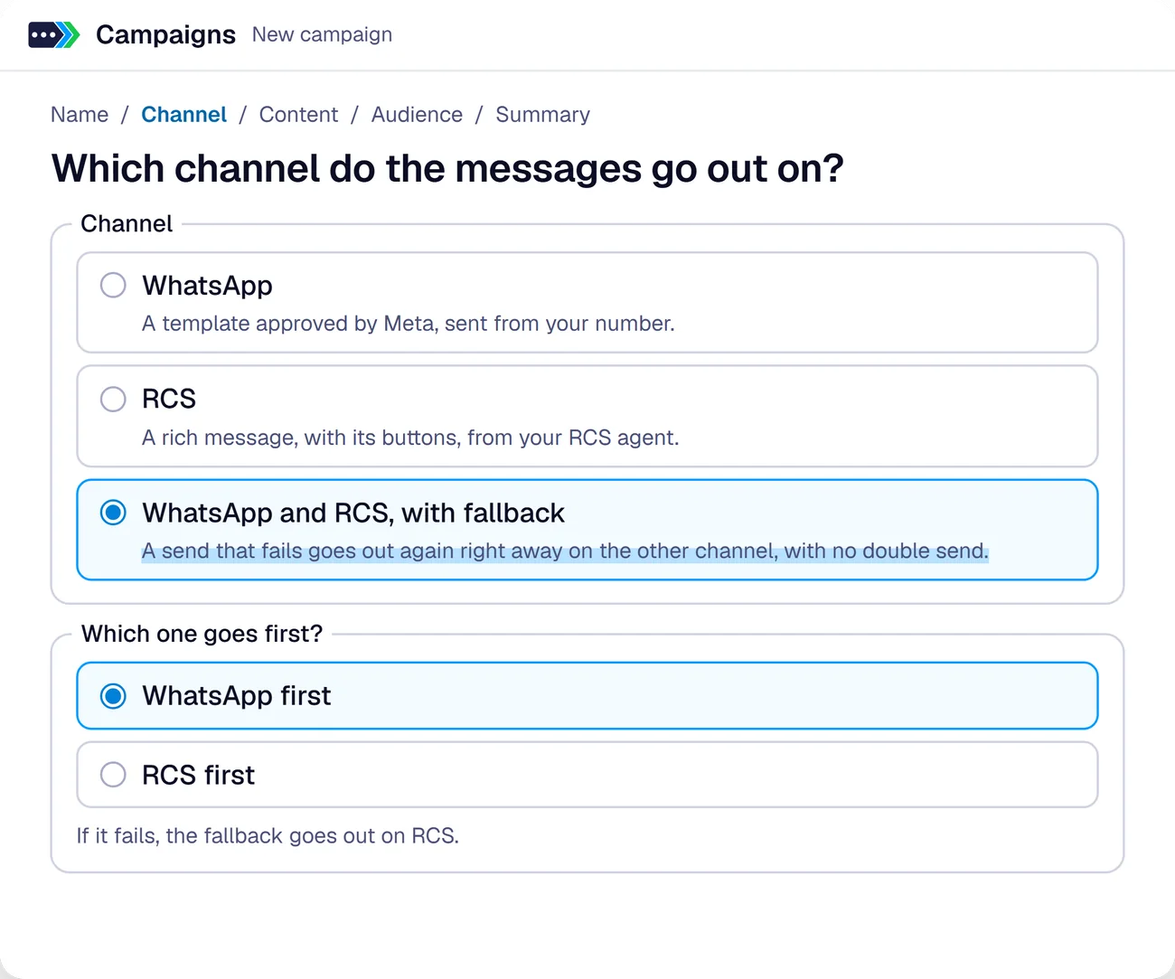
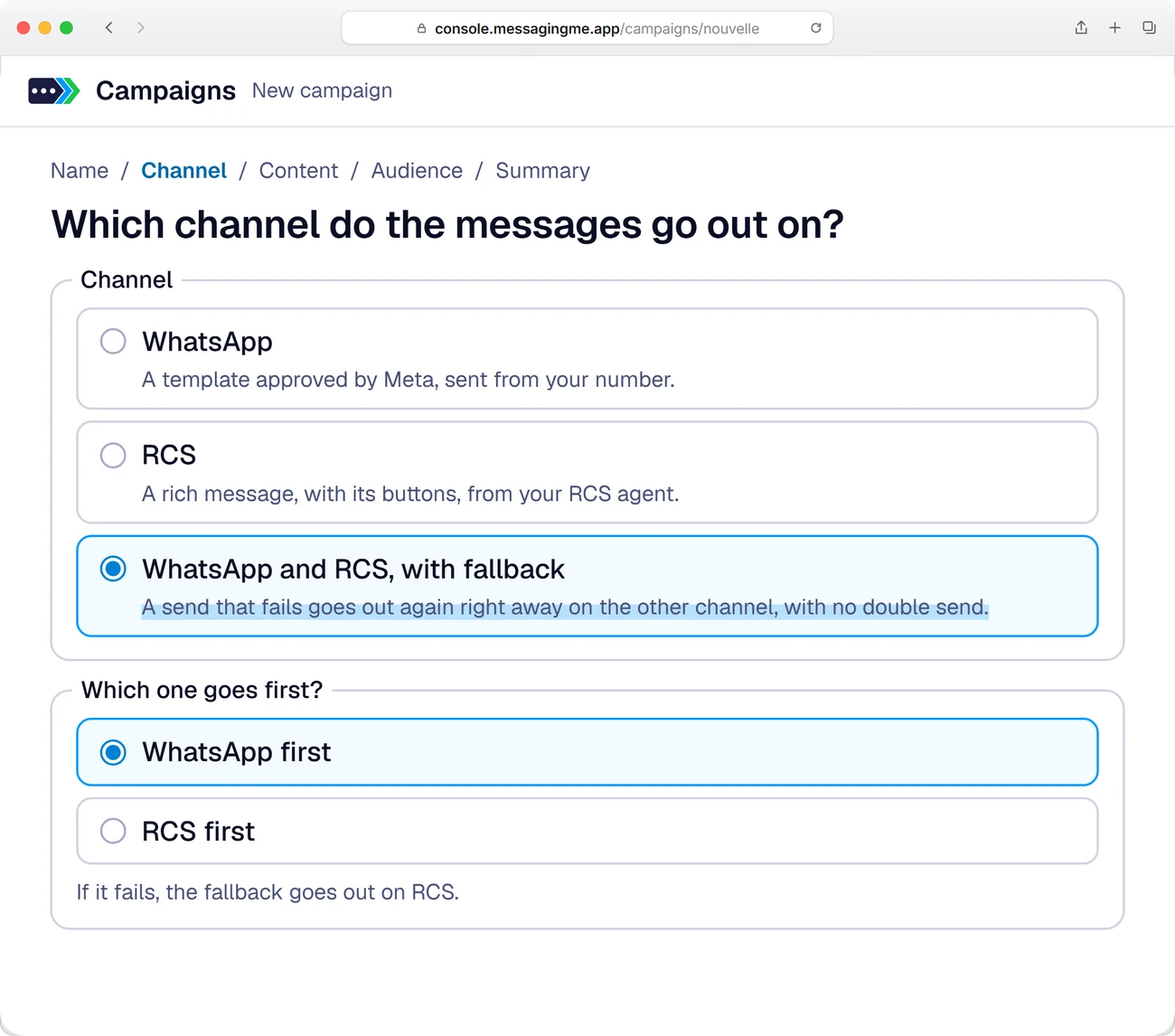
feat(vitrine): les écrans de la console dans une vraie fenêtre de navigateur
Retour de Julien : les écrans à plat (fiche CRM, campagne, Inbox, Chaîne,
publicité, scénarios) « tu peux pas les rendre plus beaux ? ». Ce sont des
écrans d'ordinateur : ils passent dans une fenêtre de navigateur de Mac (feux,
barre d'adresse au cadenas avec la vraie route de la console, coins), avec une
ombre profonde et une légère 3D, plus discrète que celle des iPhone.

Les écrans sont rendus de nouveau depuis les films, déjà en Messaging Me :
l'ancien logo des en-têtes et « Mis à jour par Engage Me » disparaissent. Le bas
vide des deux fiches CRM est coupé. Les tâches et le schéma « brique » restent à
plat. Pages françaises : nouvelles dimensions et ?v= ; pages anglaises
régénérées par npm run vitrine:anglais. La carte Fallback de l'accueil est
recadrée.

Vérifié à 1440 et 390 px ; les tests de la vitrine passent (138).

diff --git a/site/fonctionnalites/publicites-click-to-whatsapp/index.html b/site/fonctionnalites/publicites-click-to-whatsapp/index.html
@@ -270,23 +270,23 @@
           <li class="f-etape actif">
             <span class="f-num">1</span>
             <div><h3>Créez la pub dans Messaging Me</h3><p>Visuel, texte, message pré-rempli, budget, dates et audiences. La pub part sur votre compte publicitaire Meta, créée en pause&nbsp;: rien ne dépense avant que vous publiiez.</p></div>
-            <img src="/img/ctwa-creer.webp" width="1300" height="1000" alt="La création d’une publicité dans Messaging Me, avec son aperçu dans le fil" loading="lazy">
+            <img src="/img/ctwa-creer.webp?v=2" width="1300" height="1062" alt="La création d’une publicité dans Messaging Me, avec son aperçu dans le fil" loading="lazy">
           </li>
           <li class="f-etape">
             <span class="f-num">2</span>
             <div><h3>Branchez le scénario qui répond</h3><p>Il se choisit dans le formulaire de la pub, pas dans un autre outil. Le prospect reçoit sa réponse dans la seconde&nbsp;: son code, une question, un lien, jour et nuit.</p></div>
-            <img src="/img/ctwa-scenario.webp" width="1300" height="1000" alt="Le scénario qui accueille les prospects venus de la pub" loading="lazy">
+            <img src="/img/ctwa-scenario.webp?v=2" width="1300" height="1062" alt="Le scénario qui accueille les prospects venus de la pub" loading="lazy">
           </li>
           <li class="f-etape">
             <span class="f-num">3</span>
             <div><h3>Choisissez qui prend en charge</h3><p>Selon la réponse du prospect, la conversation va à votre équipe, à un agent IA ou au Meta Business Agent.</p></div>
-            <img src="/img/ctwa-qui.webp" width="1300" height="1000" alt="Le scénario confie la suite à l’équipe, à un agent IA ou au Meta Business Agent" loading="lazy">
+            <img src="/img/ctwa-qui.webp?v=2" width="1300" height="1062" alt="Le scénario confie la suite à l’équipe, à un agent IA ou au Meta Business Agent" loading="lazy">
           </li>
         </ol>
         <figure class="f-ecran" aria-hidden="true">
-          <img class="actif" src="/img/ctwa-creer.webp" width="1300" height="1000" alt="" loading="lazy">
-          <img src="/img/ctwa-scenario.webp" width="1300" height="1000" alt="" loading="lazy">
-          <img src="/img/ctwa-qui.webp" width="1300" height="1000" alt="" loading="lazy">
+          <img class="actif" src="/img/ctwa-creer.webp?v=2" width="1300" height="1062" alt="" loading="lazy">
+          <img src="/img/ctwa-scenario.webp?v=2" width="1300" height="1062" alt="" loading="lazy">
+          <img src="/img/ctwa-qui.webp?v=2" width="1300" height="1062" alt="" loading="lazy">
         </figure>
       </div>
     </div>

diff --git a/site/fonctionnalites/whatsapp-et-rcs/index.html b/site/fonctionnalites/whatsapp-et-rcs/index.html
@@ -233,23 +233,23 @@
           <li class="f-etape actif">
             <span class="f-num">1</span>
             <div><h3>Activez le fallback en une option</h3><p>À la création de la campagne, choisissez « WhatsApp et RCS, avec repli » : un envoi qui échoue repart aussitôt sur l’autre canal, sans double envoi.</p></div>
-            <img src="/img/canaux-repli.webp" width="1300" height="1083" alt="La création d’une campagne : WhatsApp et RCS, avec repli" loading="lazy">
+            <img src="/img/canaux-repli.webp?v=2" width="1300" height="1146" alt="La création d’une campagne : WhatsApp et RCS, avec repli" loading="lazy">
           </li>
           <li class="f-etape">
             <span class="f-num">2</span>
             <div><h3>Décidez lequel part en premier</h3><p>WhatsApp en premier, ou RCS en premier. En cas d’échec, le fallback part dans l’autre sens.</p></div>
-            <img src="/img/canaux-ordre.webp" width="1300" height="1083" alt="Lequel part en premier : RCS en premier, le repli part en WhatsApp" loading="lazy">
+            <img src="/img/canaux-ordre.webp?v=2" width="1300" height="1146" alt="Lequel part en premier : RCS en premier, le repli part en WhatsApp" loading="lazy">
           </li>
           <li class="f-etape">
             <span class="f-num">3</span>
             <div><h3>Toutes les réponses dans la même Inbox</h3><p>Que le client réponde sur WhatsApp ou en RCS, votre équipe lui répond au même endroit.</p></div>
-            <img src="/img/canaux-inbox.webp" width="1300" height="828" alt="L’Inbox de Messaging Me : les conversations de Léa Martin et de Thomas Petit au même endroit" loading="lazy">
+            <img src="/img/canaux-inbox.webp?v=2" width="1300" height="891" alt="L’Inbox de Messaging Me : les conversations de Léa Martin et de Thomas Petit au même endroit" loading="lazy">
           </li>
         </ol>
         <figure class="f-ecran" aria-hidden="true">
-          <img class="actif" src="/img/canaux-repli.webp" width="1300" height="1083" alt="" loading="lazy">
-          <img src="/img/canaux-ordre.webp" width="1300" height="1083" alt="" loading="lazy">
-          <img src="/img/canaux-inbox.webp" width="1300" height="828" alt="" loading="lazy">
+          <img class="actif" src="/img/canaux-repli.webp?v=2" width="1300" height="1146" alt="" loading="lazy">
+          <img src="/img/canaux-ordre.webp?v=2" width="1300" height="1146" alt="" loading="lazy">
+          <img src="/img/canaux-inbox.webp?v=2" width="1300" height="891" alt="" loading="lazy">
         </figure>
       </div>
     </div>

diff --git a/site/en/features/click-to-whatsapp-ads/index.html b/site/en/features/click-to-whatsapp-ads/index.html
@@ -271,23 +271,23 @@
           <li class="f-etape actif">
             <span class="f-num">1</span>
             <div><h3>Create the ad in Messaging Me</h3><p>Visual, text, prefilled message, budget, dates and audiences. The ad goes to your Meta ad account, created paused: nothing is spent before you publish.</p></div>
-            <img src="/img/ctwa-creer-en.webp" width="1300" height="1000" alt="Creating an ad in Messaging Me, with its preview in the feed" loading="lazy">
+            <img src="/img/ctwa-creer-en.webp" width="1300" height="1062" alt="Creating an ad in Messaging Me, with its preview in the feed" loading="lazy">
           </li>
           <li class="f-etape">
             <span class="f-num">2</span>
             <div><h3>Plug in the scenario that answers</h3><p>You choose it in the ad form, not in another tool. The prospect gets an answer within a second: their code, a question, a link, day and night.</p></div>
-            <img src="/img/ctwa-scenario-en.webp" width="1300" height="1000" alt="The scenario that welcomes prospects coming from the ad" loading="lazy">
+            <img src="/img/ctwa-scenario-en.webp" width="1300" height="1062" alt="The scenario that welcomes prospects coming from the ad" loading="lazy">
           </li>
           <li class="f-etape">
             <span class="f-num">3</span>
             <div><h3>Choose who takes over</h3><p>Depending on the prospect’s answer, the conversation goes to your team, to an AI agent or to the Meta Business Agent.</p></div>
-            <img src="/img/ctwa-qui-en.webp" width="1300" height="1000" alt="The scenario hands over to the team, to an AI agent or to the Meta Business Agent" loading="lazy">
+            <img src="/img/ctwa-qui-en.webp" width="1300" height="1062" alt="The scenario hands over to the team, to an AI agent or to the Meta Business Agent" loading="lazy">
           </li>
         </ol>
         <figure class="f-ecran" aria-hidden="true">
-          <img class="actif" src="/img/ctwa-creer-en.webp" width="1300" height="1000" alt="" loading="lazy">
-          <img src="/img/ctwa-scenario-en.webp" width="1300" height="1000" alt="" loading="lazy">
-          <img src="/img/ctwa-qui-en.webp" width="1300" height="1000" alt="" loading="lazy">
+          <img class="actif" src="/img/ctwa-creer-en.webp" width="1300" height="1062" alt="" loading="lazy">
+          <img src="/img/ctwa-scenario-en.webp" width="1300" height="1062" alt="" loading="lazy">
+          <img src="/img/ctwa-qui-en.webp" width="1300" height="1062" alt="" loading="lazy">
         </figure>
       </div>
     </div>

diff --git a/site/index.html b/site/index.html
@@ -473,7 +473,7 @@
         </li>
         <li>
           <a class="fx-carte" href="/fonctionnalites/chaines-whatsapp/">
-            <div class="fx-visuel"><img src="/img/chaine-console.webp" width="1300" height="963" alt="" loading="lazy" style="--pos:50% 0%"></div>
+            <div class="fx-visuel"><img src="/img/chaine-console.webp?v=2" width="1300" height="1026" alt="" loading="lazy" style="--pos:50% 0%"></div>
             <div class="fx-corps">
               <h3>Chaînes WhatsApp</h3>
               <p>Publiez gratuitement à tous vos abonnés. Un bouton sous chaque publication ouvre une conversation en tête-à-tête.</p>
@@ -483,7 +483,7 @@
         </li>
         <li>
           <a class="fx-carte" href="/fonctionnalites/publicites-click-to-whatsapp/">
-            <div class="fx-visuel"><img src="/img/ctwa-creer.webp" width="1300" height="1000" alt="" loading="lazy" style="--pos:50% 100%"></div>
+            <div class="fx-visuel"><img src="/img/ctwa-creer.webp?v=2" width="1300" height="1062" alt="" loading="lazy" style="--pos:50% 100%"></div>
             <div class="fx-corps">
               <h3>Publicités Click-to-WhatsApp</h3>
               <p>Des pubs Meta qui ouvrent une conversation, pas une landing page, pilotées du même endroit que vos scénarios.</p>
@@ -493,7 +493,7 @@
         </li>
         <li>
           <a class="fx-carte" href="/fonctionnalites/conversations-en-actions/">
-            <div class="fx-visuel"><img src="/img/crm-fiche.webp" width="1100" height="1127" alt="" loading="lazy" style="--pos:50% 48%"></div>
+            <div class="fx-visuel"><img src="/img/crm-fiche.webp?v=2" width="1100" height="1030" alt="" loading="lazy" style="--pos:50% 48%"></div>
             <div class="fx-corps">
               <h3>Analyse de conversations</h3>
               <p>Chaque conversation est lue&nbsp;: intention, urgence, satisfaction, risque de départ, et l’action qui en découle dans votre CRM.</p>
@@ -503,7 +503,7 @@
         </li>
         <li>
           <a class="fx-carte" href="/fonctionnalites/whatsapp-et-rcs/">
-            <div class="fx-visuel"><img src="/img/canaux-repli.webp" width="1300" height="1083" alt="" loading="lazy" style="--pos:50% 31%"></div>
+            <div class="fx-visuel"><img src="/img/canaux-repli.webp?v=2" width="1300" height="1146" alt="" loading="lazy" style="--pos:50% 40%"></div>
             <div class="fx-corps">
               <h3>Fallback WhatsApp et RCS</h3>
               <p>Chaque client reçoit le message sur son canal. Si un envoi échoue, il repart aussitôt sur l’autre, sans double envoi.</p>

diff --git a/site/en/features/whatsapp-and-rcs/index.html b/site/en/features/whatsapp-and-rcs/index.html
@@ -234,23 +234,23 @@
           <li class="f-etape actif">
             <span class="f-num">1</span>
             <div><h3>Turn on fallback with one option</h3><p>When you create the campaign, choose “WhatsApp and RCS, with fallback”: a send that fails goes out again right away on the other channel, with no double send.</p></div>
-            <img src="/img/canaux-repli-en.webp" width="1300" height="1083" alt="Creating a campaign: WhatsApp and RCS, with fallback" loading="lazy">
+            <img src="/img/canaux-repli-en.webp" width="1300" height="1146" alt="Creating a campaign: WhatsApp and RCS, with fallback" loading="lazy">
           </li>
           <li class="f-etape">
             <span class="f-num">2</span>
             <div><h3>Decide which one goes first</h3><p>WhatsApp first, or RCS first. If it fails, the fallback goes the other way.</p></div>
-            <img src="/img/canaux-ordre-en.webp" width="1300" height="1083" alt="Which one goes first: RCS first, the fallback goes out on WhatsApp" loading="lazy">
+            <img src="/img/canaux-ordre-en.webp" width="1300" height="1146" alt="Which one goes first: RCS first, the fallback goes out on WhatsApp" loading="lazy">
           </li>
           <li class="f-etape">
             <span class="f-num">3</span>
             <div><h3>Every reply in the same Inbox</h3><p>Whether the customer replies on WhatsApp or on RCS, your team answers in the same place.</p></div>
-            <img src="/img/canaux-inbox-en.webp" width="1300" height="828" alt="The Messaging Me Inbox: Léa Martin’s and Thomas Petit’s conversations in one place" loading="lazy">
+            <img src="/img/canaux-inbox-en.webp" width="1300" height="891" alt="The Messaging Me Inbox: Léa Martin’s and Thomas Petit’s conversations in one place" loading="lazy">
           </li>
         </ol>
         <figure class="f-ecran" aria-hidden="true">
-          <img class="actif" src="/img/canaux-repli-en.webp" width="1300" height="1083" alt="" loading="lazy">
-          <img src="/img/canaux-ordre-en.webp" width="1300" height="1083" alt="" loading="lazy">
-          <img src="/img/canaux-inbox-en.webp" width="1300" height="828" alt="" loading="lazy">
+          <img class="actif" src="/img/canaux-repli-en.webp" width="1300" height="1146" alt="" loading="lazy">
+          <img src="/img/canaux-ordre-en.webp" width="1300" height="1146" alt="" loading="lazy">
+          <img src="/img/canaux-inbox-en.webp" width="1300" height="891" alt="" loading="lazy">
         </figure>
       </div>
     </div>

diff --git a/site/en/index.html b/site/en/index.html
@@ -474,7 +474,7 @@
         </li>
         <li>
           <a class="fx-carte" href="/en/features/whatsapp-channels/">
-            <div class="fx-visuel"><img src="/img/chaine-console-en.webp" width="1300" height="963" alt="" loading="lazy" style="--pos:50% 0%"></div>
+            <div class="fx-visuel"><img src="/img/chaine-console-en.webp" width="1300" height="1026" alt="" loading="lazy" style="--pos:50% 0%"></div>
             <div class="fx-corps">
               <h3>WhatsApp Channels</h3>
               <p>Post for free to all your followers. A button under each post opens a one-to-one conversation.</p>
@@ -484,7 +484,7 @@
         </li>
         <li>
           <a class="fx-carte" href="/en/features/click-to-whatsapp-ads/">
-            <div class="fx-visuel"><img src="/img/ctwa-creer-en.webp" width="1300" height="1000" alt="" loading="lazy" style="--pos:50% 100%"></div>
+            <div class="fx-visuel"><img src="/img/ctwa-creer-en.webp" width="1300" height="1062" alt="" loading="lazy" style="--pos:50% 100%"></div>
             <div class="fx-corps">
               <h3>Click-to-WhatsApp ads</h3>
               <p>Meta ads that open a conversation, not a landing page, run from the same place as your scenarios.</p>
@@ -494,7 +494,7 @@
         </li>
         <li>
           <a class="fx-carte" href="/en/features/conversations-into-actions/">
-            <div class="fx-visuel"><img src="/img/crm-fiche-en.webp" width="1100" height="1127" alt="" loading="lazy" style="--pos:50% 48%"></div>
+            <div class="fx-visuel"><img src="/img/crm-fiche-en.webp" width="1100" height="1030" alt="" loading="lazy" style="--pos:50% 48%"></div>
             <div class="fx-corps">
               <h3>Conversation analysis</h3>
               <p>Every conversation is read: intent, urgency, satisfaction, churn risk, and the resulting action in your CRM.</p>
@@ -504,7 +504,7 @@
         </li>
         <li>
           <a class="fx-carte" href="/en/features/whatsapp-and-rcs/">
-            <div class="fx-visuel"><img src="/img/canaux-repli-en.webp" width="1300" height="1083" alt="" loading="lazy" style="--pos:50% 31%"></div>
+            <div class="fx-visuel"><img src="/img/canaux-repli-en.webp" width="1300" height="1146" alt="" loading="lazy" style="--pos:50% 40%"></div>
             <div class="fx-corps">
               <h3>WhatsApp and RCS fallback</h3>
               <p>Every customer gets the message on their channel. If a send fails, it goes out again right away on the other one, with no double send.</p>

diff --git a/site/fonctionnalites/campagnes-et-scenarios/index.html b/site/fonctionnalites/campagnes-et-scenarios/index.html
@@ -224,17 +224,17 @@
           <li class="f-etape actif">
             <span class="f-num">1</span>
             <div><h3>Composez la campagne en cinq étapes</h3><p>Le nom, le canal (WhatsApp, RCS, ou une chaîne des deux avec fallback), le contenu (un template approuvé, un message RCS ou un scénario), l’audience (une liste filtrée par tags, un import, une liste HubSpot), puis le récapitulatif, qui dit combien de contacts reçoit chaque étage.</p></div>
-            <img src="/img/canaux-repli.webp" width="1300" height="1083" alt="La création d’une campagne dans Messaging Me : le choix du canal" loading="lazy">
+            <img src="/img/canaux-repli.webp?v=2" width="1300" height="1146" alt="La création d’une campagne dans Messaging Me : le choix du canal" loading="lazy">
           </li>
           <li class="f-etape">
             <span class="f-num">2</span>
             <div><h3>Les réponses arrivent dans l’Inbox</h3><p>Chaque client qui répond ouvre une conversation. Votre équipe la reprend, ou le répondeur automatique s’en charge&nbsp;: un agent IA, le Meta Business Agent ou un scénario.</p></div>
-            <img src="/img/canaux-inbox.webp" width="1300" height="828" alt="L’Inbox de Messaging Me : la campagne envoyée à Léa Martin, et sa réponse" loading="lazy">
+            <img src="/img/canaux-inbox.webp?v=2" width="1300" height="891" alt="L’Inbox de Messaging Me : la campagne envoyée à Léa Martin, et sa réponse" loading="lazy">
           </li>
         </ol>
         <figure class="f-ecran" aria-hidden="true">
-          <img class="actif" src="/img/canaux-repli.webp" width="1300" height="1083" alt="" loading="lazy">
-          <img src="/img/canaux-inbox.webp" width="1300" height="828" alt="" loading="lazy">
+          <img class="actif" src="/img/canaux-repli.webp?v=2" width="1300" height="1146" alt="" loading="lazy">
+          <img src="/img/canaux-inbox.webp?v=2" width="1300" height="891" alt="" loading="lazy">
         </figure>
       </div>
     </div>

diff --git a/site/en/features/campaigns-and-scenarios/index.html b/site/en/features/campaigns-and-scenarios/index.html
@@ -225,17 +225,17 @@
           <li class="f-etape actif">
             <span class="f-num">1</span>
             <div><h3>Build the campaign in five steps</h3><p>The name, the channel (WhatsApp, RCS, or a sequence of both with fallback), the content (an approved template, an RCS message or a scenario), the audience (a list filtered by tags, an import, a HubSpot list), then the summary, which tells how many contacts each stage reaches.</p></div>
-            <img src="/img/canaux-repli-en.webp" width="1300" height="1083" alt="Creating a campaign in Messaging Me: choosing the channel" loading="lazy">
+            <img src="/img/canaux-repli-en.webp" width="1300" height="1146" alt="Creating a campaign in Messaging Me: choosing the channel" loading="lazy">
           </li>
           <li class="f-etape">
             <span class="f-num">2</span>
             <div><h3>Replies land in the Inbox</h3><p>Every customer who replies opens a conversation. Your team picks it up, or the automatic responder handles it: an AI agent, the Meta Business Agent or a scenario.</p></div>
-            <img src="/img/canaux-inbox-en.webp" width="1300" height="828" alt="The Messaging Me Inbox: the campaign sent to Léa Martin, and her reply" loading="lazy">
+            <img src="/img/canaux-inbox-en.webp" width="1300" height="891" alt="The Messaging Me Inbox: the campaign sent to Léa Martin, and her reply" loading="lazy">
           </li>
         </ol>
         <figure class="f-ecran" aria-hidden="true">
-          <img class="actif" src="/img/canaux-repli-en.webp" width="1300" height="1083" alt="" loading="lazy">
-          <img src="/img/canaux-inbox-en.webp" width="1300" height="828" alt="" loading="lazy">
+          <img class="actif" src="/img/canaux-repli-en.webp" width="1300" height="1146" alt="" loading="lazy">
+          <img src="/img/canaux-inbox-en.webp" width="1300" height="891" alt="" loading="lazy">
         </figure>
       </div>
     </div>

diff --git a/site/fonctionnalites/conversations-en-actions/index.html b/site/fonctionnalites/conversations-en-actions/index.html
@@ -199,7 +199,7 @@
         <p class="f-texte">Ce qu’ils veulent, c’est savoir qui appeler, et quand. Et vos e-mails, SMS et newsletters partent sans que rien ne revienne : les signaux de vos clients vous échappent.</p>
       </div>
       <figure class="f-avant-visuel">
-        <img class="f-fenetre" src="/img/crm-fiche-vide.webp" width="1100" height="1127" alt="Une fiche CRM restée vide, complétée à 3 %" loading="lazy">
+        <img class="f-fenetre" src="/img/crm-fiche-vide.webp?v=2" width="1100" height="777" alt="Une fiche CRM restée vide, complétée à 3 %" loading="lazy">
       </figure>
     </div>
   </section>
@@ -220,7 +220,7 @@
           <li class="f-etape actif">
             <span class="f-num">1</span>
             <div><h3>Chaque conversation est analysée</h3><p>Intention, satisfaction, urgence, risque de départ, action suggérée : la fiche du client se remplit à chaque échange, sur WhatsApp comme en RCS.</p></div>
-            <img src="/img/crm-fiche.webp" width="1100" height="1127" alt="La fiche de Léa Martin complétée à 100 %, mise à jour par Messaging Me" loading="lazy">
+            <img src="/img/crm-fiche.webp?v=2" width="1100" height="1030" alt="La fiche de Léa Martin complétée à 100 %, mise à jour par Messaging Me" loading="lazy">
           </li>
           <li class="f-etape">
             <span class="f-num">2</span>
@@ -234,7 +234,7 @@
           </li>
         </ol>
         <figure class="f-ecran" aria-hidden="true">
-          <img class="actif" src="/img/crm-fiche.webp" width="1100" height="1127" alt="" loading="lazy">
+          <img class="actif" src="/img/crm-fiche.webp?v=2" width="1100" height="1030" alt="" loading="lazy">
           <img src="/img/crm-taches.webp" width="1300" height="530" alt="" loading="lazy">
           <img src="/img/crm-brique.webp" width="1600" height="395" alt="" loading="lazy">
         </figure>

diff --git a/site/en/features/conversations-into-actions/index.html b/site/en/features/conversations-into-actions/index.html
@@ -200,7 +200,7 @@
         <p class="f-texte">What they want is to know who to call, and when. And your emails, text messages and newsletters go out with nothing coming back: your customers’ signals slip away.</p>
       </div>
       <figure class="f-avant-visuel">
-        <img class="f-fenetre" src="/img/crm-fiche-vide-en.webp" width="1100" height="1127" alt="A CRM record left empty, 3% complete" loading="lazy">
+        <img class="f-fenetre" src="/img/crm-fiche-vide-en.webp" width="1100" height="777" alt="A CRM record left empty, 3% complete" loading="lazy">
       </figure>
     </div>
   </section>
@@ -221,7 +221,7 @@
           <li class="f-etape actif">
             <span class="f-num">1</span>
             <div><h3>Every conversation is analyzed</h3><p>Intent, satisfaction, urgency, churn risk, suggested action: the customer record fills in with every exchange, on WhatsApp as on RCS.</p></div>
-            <img src="/img/crm-fiche-en.webp" width="1100" height="1127" alt="Léa Martin’s record 100% complete, updated by Messaging Me" loading="lazy">
+            <img src="/img/crm-fiche-en.webp" width="1100" height="1030" alt="Léa Martin’s record 100% complete, updated by Messaging Me" loading="lazy">
           </li>
           <li class="f-etape">
             <span class="f-num">2</span>
@@ -235,7 +235,7 @@
           </li>
         </ol>
         <figure class="f-ecran" aria-hidden="true">
-          <img class="actif" src="/img/crm-fiche-en.webp" width="1100" height="1127" alt="" loading="lazy">
+          <img class="actif" src="/img/crm-fiche-en.webp" width="1100" height="1030" alt="" loading="lazy">
           <img src="/img/crm-taches-en.webp" width="1300" height="530" alt="" loading="lazy">
           <img src="/img/crm-brique-en.webp" width="1600" height="395" alt="" loading="lazy">
         </figure>

diff --git a/site/fonctionnalites/chaines-whatsapp/index.html b/site/fonctionnalites/chaines-whatsapp/index.html
@@ -231,7 +231,7 @@
           <li class="f-etape actif">
             <span class="f-num">1</span>
             <div><h3>Publiez depuis Messaging Me</h3><p>Texte mis en forme, photo et aperçu fidèle : la publication part sur votre chaîne WhatsApp, pour tous vos abonnés.</p></div>
-            <img src="/img/chaine-console.webp" width="1300" height="963" alt="La page Chaîne de Messaging Me : une nouvelle publication et son aperçu" loading="lazy">
+            <img src="/img/chaine-console.webp?v=2" width="1300" height="1026" alt="La page Chaîne de Messaging Me : une nouvelle publication et son aperçu" loading="lazy">
           </li>
           <li class="f-etape">
             <span class="f-num">2</span>
@@ -245,7 +245,7 @@
           </li>
         </ol>
         <figure class="f-ecran" aria-hidden="true">
-          <img class="actif" src="/img/chaine-console.webp" width="1300" height="963" alt="" loading="lazy">
+          <img class="actif" src="/img/chaine-console.webp?v=2" width="1300" height="1026" alt="" loading="lazy">
           <img class="f-tel f-arrondi" src="/img/chaine-bouton.webp?v=2" width="560" height="1177" alt="" loading="lazy">
           <img class="f-tel" src="/img/chaine-conversation.webp?v=2" width="560" height="1177" alt="" loading="lazy">
         </figure>

diff --git a/site/en/features/whatsapp-channels/index.html b/site/en/features/whatsapp-channels/index.html
@@ -232,7 +232,7 @@
           <li class="f-etape actif">
             <span class="f-num">1</span>
             <div><h3>Post from Messaging Me</h3><p>Formatted text, a photo and an accurate preview: the post goes out on your WhatsApp channel, to all your followers.</p></div>
-            <img src="/img/chaine-console-en.webp" width="1300" height="963" alt="The Channel page in Messaging Me: a new post and its preview" loading="lazy">
+            <img src="/img/chaine-console-en.webp" width="1300" height="1026" alt="The Channel page in Messaging Me: a new post and its preview" loading="lazy">
           </li>
           <li class="f-etape">
             <span class="f-num">2</span>
@@ -246,7 +246,7 @@
           </li>
         </ol>
         <figure class="f-ecran" aria-hidden="true">
-          <img class="actif" src="/img/chaine-console-en.webp" width="1300" height="963" alt="" loading="lazy">
+          <img class="actif" src="/img/chaine-console-en.webp" width="1300" height="1026" alt="" loading="lazy">
           <img class="f-tel f-arrondi" src="/img/chaine-bouton-en.webp" width="560" height="1177" alt="" loading="lazy">
           <img class="f-tel" src="/img/chaine-conversation-en.webp" width="560" height="1177" alt="" loading="lazy">
         </figure>
